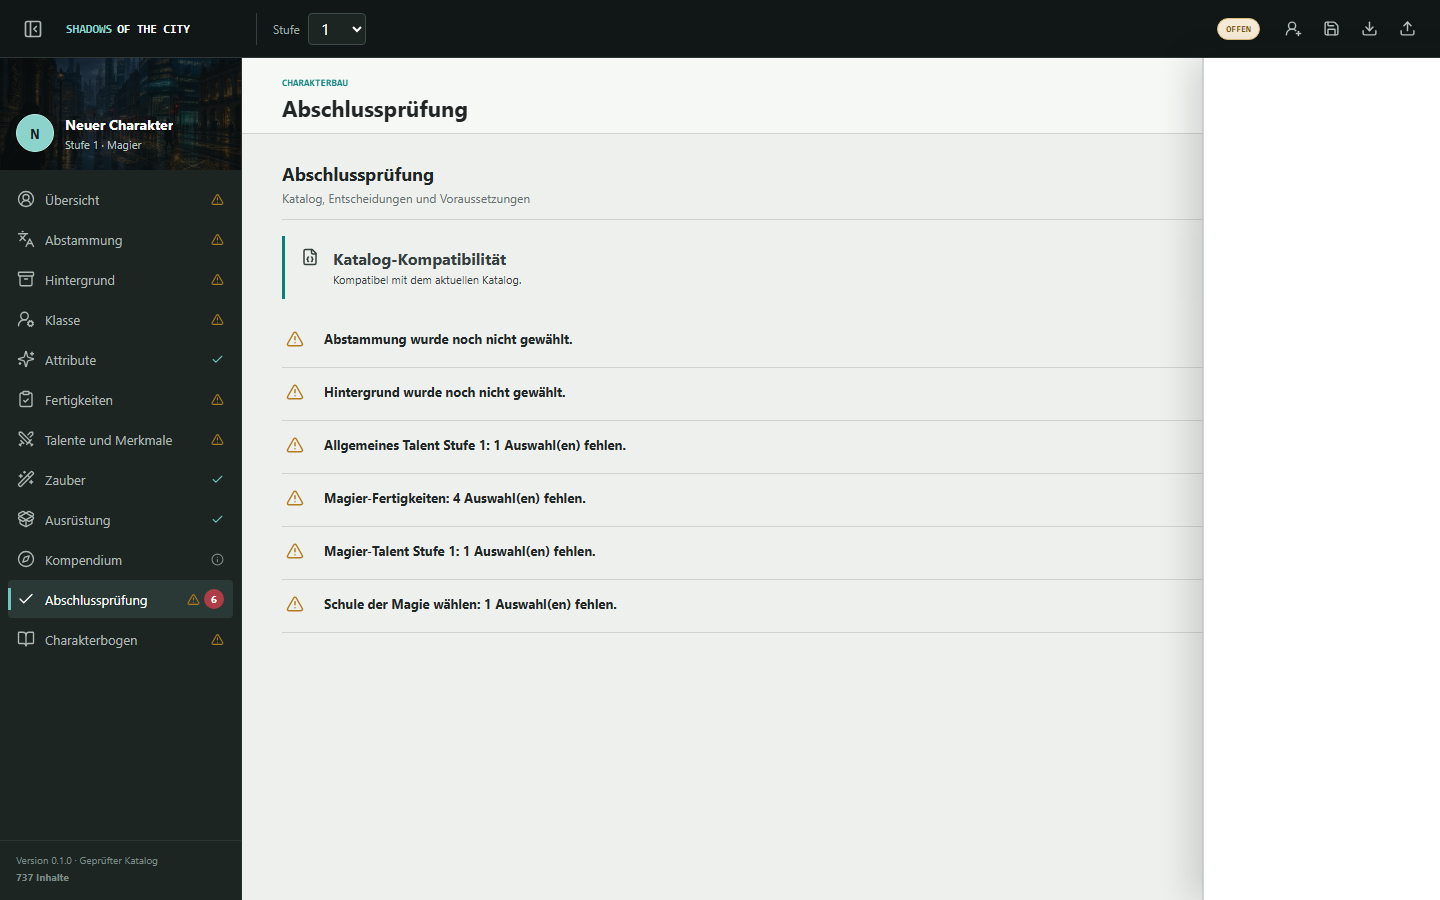
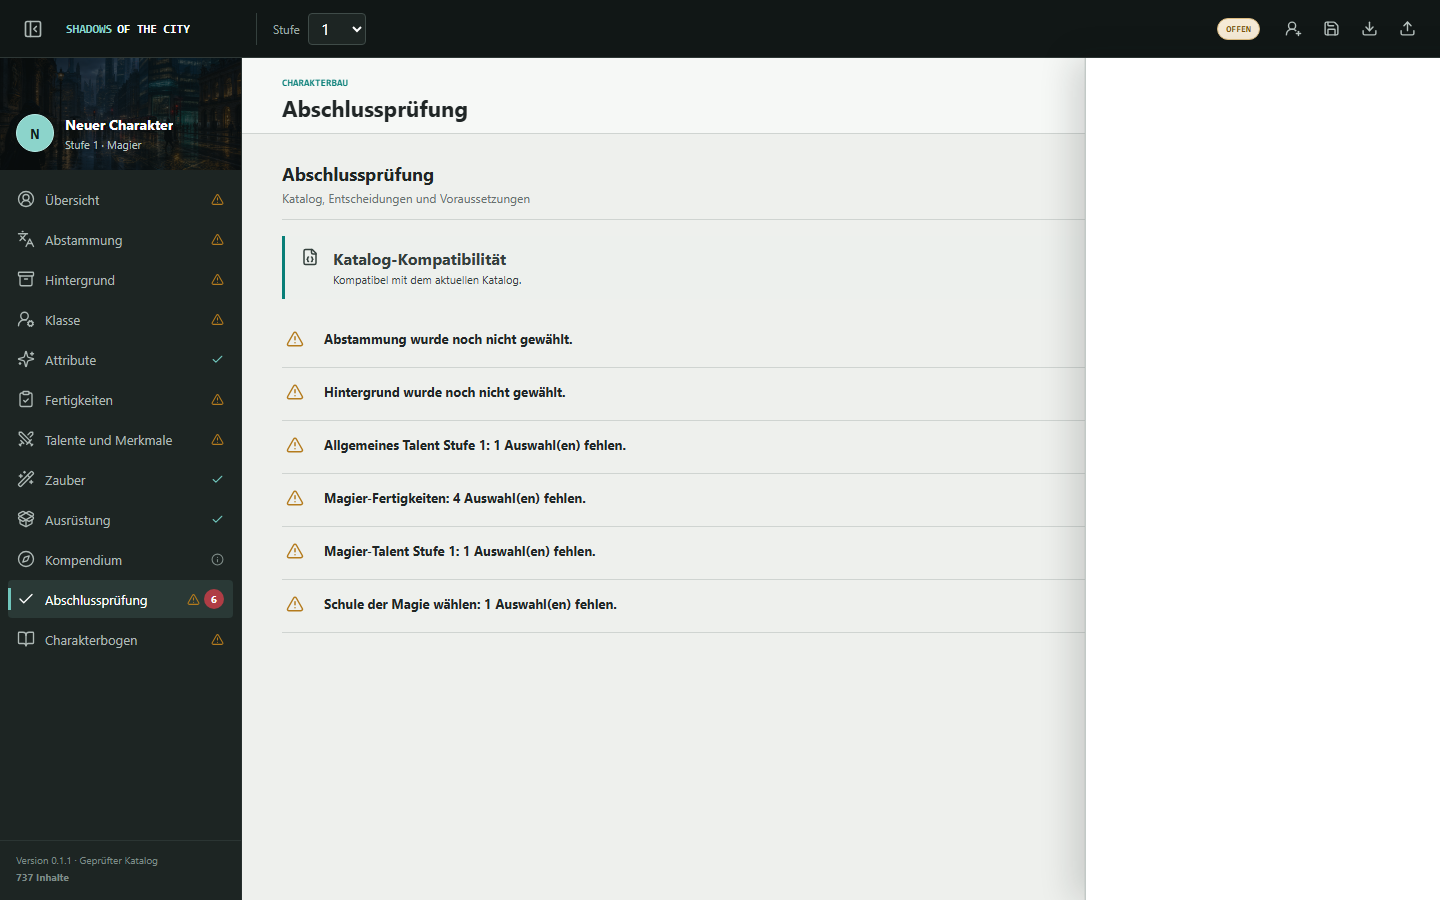
docs: record final 0.1.1 verification

Changed region(s): [[0.8125, 0.0622, 0.8438, 1.0], [0.75, 0.0933, 0.7812, 0.9644]]

diff --git a/docs/review/11-v0.1.1-final-verification.md b/docs/review/11-v0.1.1-final-verification.md
@@ -1,0 +1,86 @@
+# Abschlussprüfung Version 0.1.1
+
+Datum: 2026-07-31  
+Release-Quellcommit: `03585727e43672b56b37ad0d5e4e0ec44fe4d0b1`
+
+## Ergebnis
+
+Version 0.1.1 erfüllt den Repository-Vertrag. Creator und Charakterbogen
+verwenden Character-Format 3, Session State 1, denselben Katalog und dieselbe
+Rules Engine. Das Release-ZIP wurde erzeugt und mit Prüfsumme, Pflichtdateien,
+Version und Katalogmetadaten verifiziert.
+
+## Ausgeführte Prüfungen
+
+- `npm ci`: erfolgreich
+- `npm run content:migrate`: 64 Quellen, 737 Entitäten
+- `npm run content:validate`: 737 valide Entitäten
+- `npm run release:build`: erfolgreich
+- `npm run release:verify`: 15 Release-Dateien erfolgreich geprüft
+- `npm run verify`: vollständig erfolgreich
+
+Der Vollvertrag enthielt:
+
+- ESLint und TypeScript für alle Workspaces
+- deterministische Migration und Generated-Content-Vergleich
+- Content-, Editorial-, Equipment- und Machine-Readability-Audits
+- 737/737 erreichbare Inhalte
+- 9/9 Klassen ohne strukturelle Progressionsfehler
+- Architekturprüfung und 12 Contentvorlagen
+- 104 Unit-/Integrationstests in 17 Dateien
+- 21 Chromium-E2E-Szenarien
+- Produktionsbuild und Prettier-Vertrag
+
+## Spiel- und Darstellungsprüfung
+
+Die Real-Content-Regressionen decken kampforientierte Ork/Söldner-,
+fertigkeitsorientierte Mensch/Agent-, zauberorientierte Elf/Magier- und
+technikorientierte Gnom/Ingenieur-Builds sowie einen Legacy-Import ab.
+Nichtzauberer, Buildänderungen mit bestehendem Session State, mehrere
+Ressourcenregeln und Inventarzustände sind in Engine-, Storage- und
+Sessiontests enthalten.
+
+Der vollständige Browserablauf prüft TP, temporäre TP, Schaden, Heilung,
+Zustand, Aktionsnutzung, Fertigkeits- und Angriffswurf, Zauberplatz,
+Ausrüstung, Menge, eigene Ressource, Reload, letzten Bereich, Statblock,
+JSON-Export und Reimport.
+
+Referenzscreenshots 27 bis 38 decken Desktop und Mobil für Übersicht, Kampf,
+Zauber und Inventar sowie A4-Kernseite, A4-Kampfseite, A4-Zauberseite und
+Statblock ab. Geprüfte Viewports umfassen 390 x 844 und 1440 x 900; die
+bestehende Responsive-Suite prüft zusätzlich kleine Mobilgrenzen.
+
+## Buildwerte
+
+- Startchunk: 373,75 kB / 111,57 kB gzip
+- Katalogchunk: 1.379,01 kB / 137,65 kB gzip
+- Charakterbogen: 59,60 kB / 15,11 kB gzip
+- Markdown-Details: 165,31 kB / 50,52 kB gzip
+- CSS: 49,12 kB / 9,66 kB gzip
+- Katalog-Hash:
[1 lines of base64/hex data omitted]
+
+Gegenüber der 0.1.0-Baseline mit einem JavaScript-Chunk von 1.920,40 kB
+wurden Startcode, Charakterbogen, Markdown und Katalog getrennt. Alle Dateien
+bleiben lokale Offline-Artefakte.
+
+## Release-Artefakte
+
+- `dist/`
+- `release/shadows-of-the-city-0.1.1.zip`
+- `release/shadows-of-the-city-0.1.1-checksums.txt`
+- `release/shadows-of-the-city-0.1.1-build-report.md`
+
+## Bekannte Einschränkungen
+
+- Freie Zustände und situative Freitextregeln werden sichtbar, aber nicht
+  automatisch verrechnet.
+- Der aktuelle Katalog enthält keine `resource`-Entitäten; das generische
+  Session-Ressourcenmodell ist deshalb zusätzlich manuell bedienbar und
+  getestet.
+- Vorbereitete Einzelzauber, Währungen und Angriffsvarianten werden erst mit
+  strukturierten Katalogdaten automatisch geführt.
+- PDF wird über den eigenständigen A4-Browserdruck erzeugt.
+- `npm ci` meldet fünf bereits im Lockfile vorhandene hohe Befunde über den
+  vollständigen Abhängigkeitsbaum. Es wurden keine neuen Fremdpakete
+  eingeführt und keine erzwungenen Breaking-Upgrades vorgenommen.

diff --git a/docs/implementation-progress.md b/docs/implementation-progress.md
@@ -737,8 +737,8 @@ Offene Punkte:
 | 22 - Tests | complete | Unit-, Integration-, E2E- und visuelle Verträge | Testdateien und Screenshots | 104 Unit/Integration, 21 E2E | keine |
 | 23 - Bereinigung | complete | jeweils ein produktiver Pfad | `App.tsx`, `styles.css` | Suche nach alten Selektoren | keine |
 | 24 - Dokumentation | complete | Fach-, Architektur- und Betriebsdokumentation | `docs/*.md`, README, Changelog | Formatprüfung folgt im Vollvertrag | keine |
-| 25 - Release 0.1.1 | active | Version, ZIP, Prüfsumme und Buildbericht | Manifeste und Releaseskript | Release-Build folgt | Artefakte erzeugen |
-| 26 - Abschlussprüfung | active | frische Installation, Vollprüfung und manuelle Matrix | Abschlussbericht folgt | `npm run verify` folgt | Vollvertrag ausführen |
+| 25 - Release 0.1.1 | complete | Version, ZIP, Prüfsumme und Buildbericht | Manifeste, Releaseskript und `release/` | Release-Build und -Verify erfolgreich | keine |
+| 26 - Abschlussprüfung | complete | frische Installation, Vollprüfung und manuelle Matrix | `docs/review/11-v0.1.1-final-verification.md` | `npm ci`, Release und `npm run verify` erfolgreich | keine |
 
 ### Phase 0
 
@@ -818,8 +818,17 @@ Status: `complete`
 - Katalog als eigener 1.379,01-kB-Chunk
 - alter statischer Bogen und tote CSS-Regeln entfernt
 
-Nächster konkreter Arbeitsschritt:
+Damals nächster Arbeitsschritt: Release und Abschlussprüfung. Beide sind im
+folgenden Abschnitt abgeschlossen.
 
-- Version und Dokumentation committen,
-- Release-Artefakte aus dem festgehaltenen Commit erzeugen,
-- vollständigen Abschlussvertrag und Release-Verifikation ausführen.
+### Phasen 25 und 26 - Abschluss
+
+Status: `complete`
+
+- Release-Quellcommit: `03585727e43672b56b37ad0d5e4e0ec44fe4d0b1`
+- Release-ZIP mit 15 Dateien und SHA-256-Prüfsumme verifiziert
+- `npm ci`, Migration, Validierung, Release-Build und Release-Verify erfolgreich
+- `npm run verify` vollständig erfolgreich
+- 104 Unit-/Integrationstests und 21 E2E-Szenarien erfolgreich
+- Abschlussbericht:
+  `docs/review/11-v0.1.1-final-verification.md`
